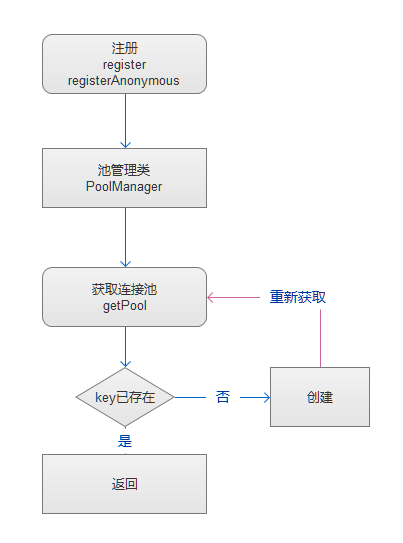
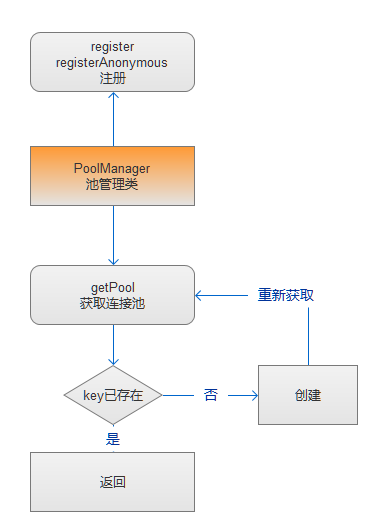
m

diff --git a/_posts/2019-10-16-easyswoole-study-2.md b/_posts/2019-10-16-easyswoole-study-2.md
@@ -1,0 +1,45 @@
+---
+layout:     post
+title:      "EasySwoole学习（二）"
+subtitle:   "连接池"
+date:       2019-10-16 14:30
+author:     "BeautyMyth"
+header-img: "img/post-bg-2015.jpg"
+catalog: true
+multilingual: false
+tags:
+    - php
+    - easy-swoole
+---
+
+## 概述
+
+<p>
+easyswoole的连接池主要使用了<code>Swoole\Coroutine\Channel（支持多生产者协程和多消费者协程）</code>来实现连接池对象的分配（出队列与入队列），如果连接池中没有可用对象，连接池会尝试创建新的对象（除非已经达到数量上限）。
+</p>
+
+## 类关系
+
+![image](https://github.com/xuanxuan2016/xuanxuan2016.github.io/blob/master/img/2019-10-16-easyswoole-study-2/tu_1.png?raw=true)
+
+## 调用流程
+
+<p>
+绿色图示为类的方法。
+</p>
+
+##### 池管理类
+
+![image](https://github.com/xuanxuan2016/xuanxuan2016.github.io/blob/master/img/2019-10-16-easyswoole-study-2/tu_2.png?raw=true)
+
+##### 池类
+
+![image](https://github.com/xuanxuan2016/xuanxuan2016.github.io/blob/master/img/2019-10-16-easyswoole-study-2/tu_3.png?raw=true)
+
+## 参考资料
+
+[easy swoole 连接池](http://www.easyswoole.com/Components/Pool/introduction.html)
+
+[Swoole\Coroutine\Channel](https://wiki.swoole.com/wiki/page/p-coroutine_channel.html)
+
+[注释版连接池代码](https://github.com/xuanxuan2016/easyswoole1/tree/master/vendor/easyswoole/component/src/Pool)
